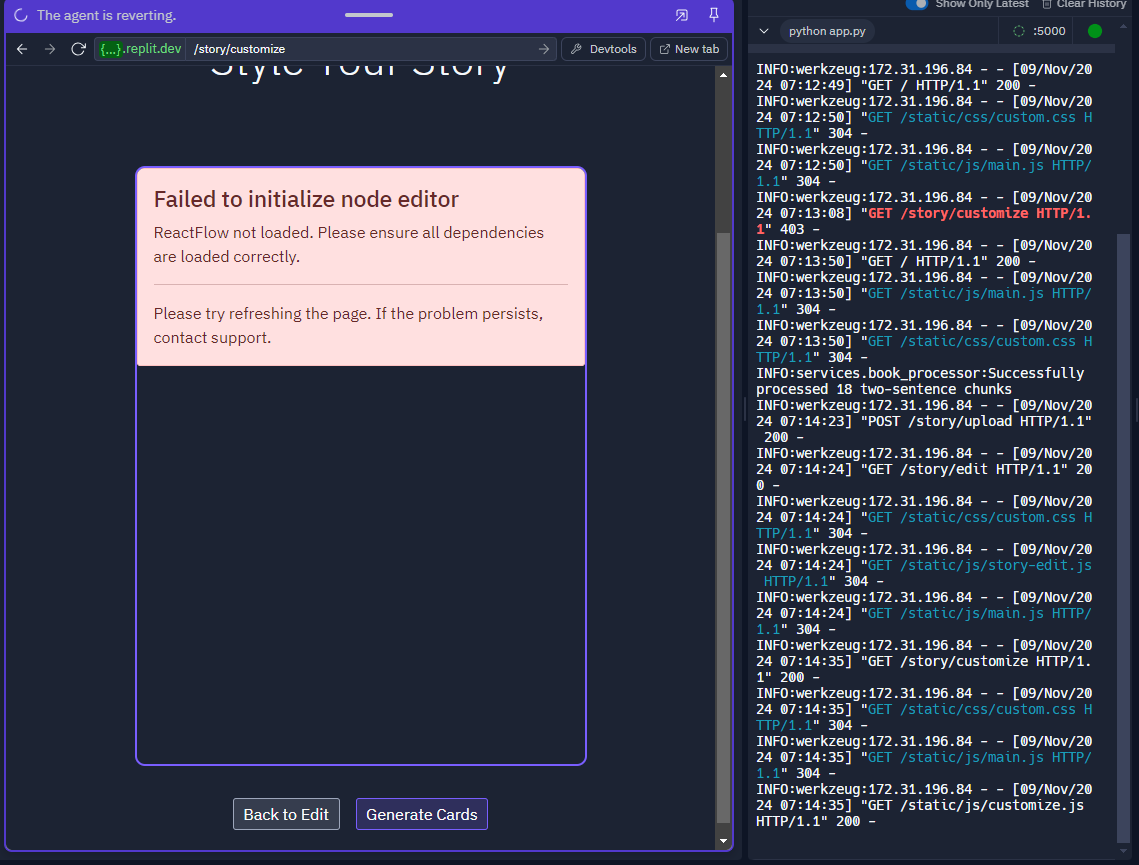
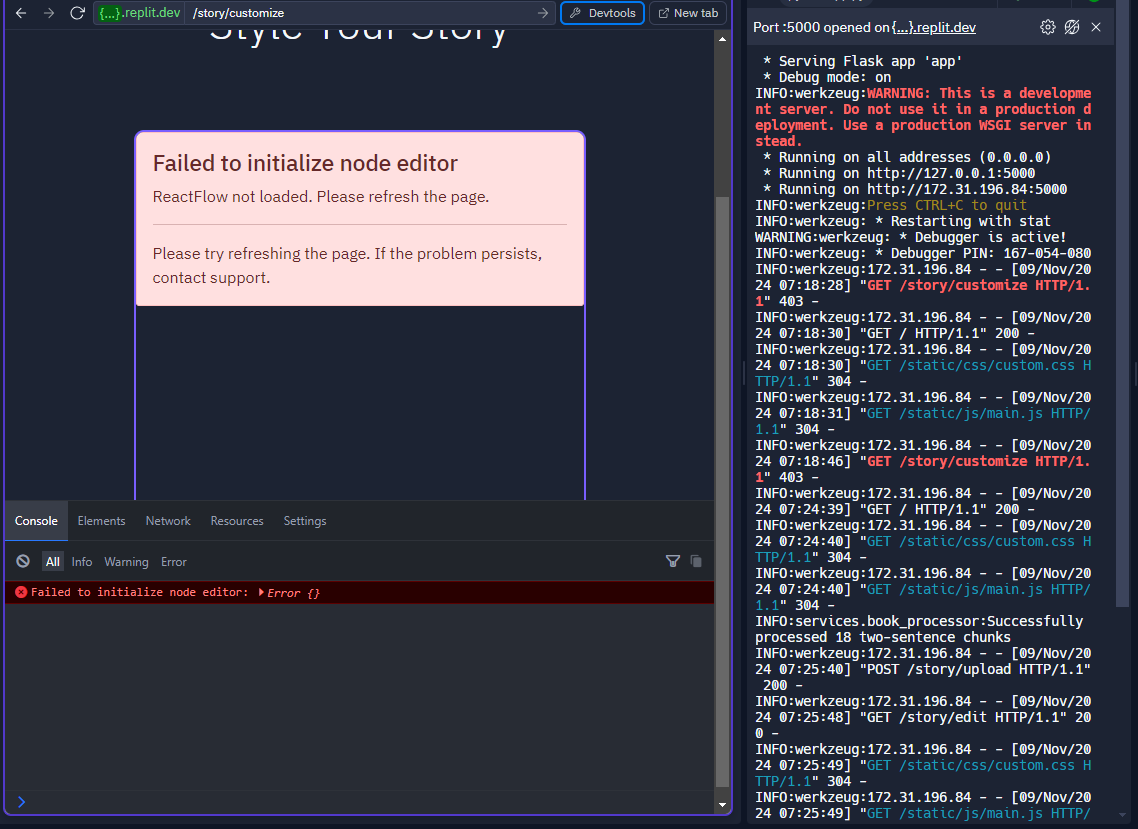
Agent query: Please verify if: 1. The node editor loads without errors 2. Paragraph nodes and style nodes are visible and connected 3. Style dropdowns can be changed 4. The 'Generate Cards' button works

diff --git a/static/js/customize.js b/static/js/customize.js
@@ -1,17 +1,11 @@
 document.addEventListener('DOMContentLoaded', () => {
-    const initializeEditor = () => {
+    // Wait for all scripts to load
+    setTimeout(() => {
         const container = document.getElementById('node-editor');
-        if (!container) {
-            console.error('Node editor container not found');
-            return;
-        }
+        if (!container) return;
 
         try {
-            // Verify ReactFlow is loaded
-            if (!window.ReactFlow) {
-                throw new Error('ReactFlow not loaded. Please refresh the page.');
-            }
-
+            // Parse story data
             const storyData = JSON.parse(container.dataset.story);
             
             // Create root element
@@ -20,22 +14,22 @@ document.addEventListener('DOMContentLoaded', () => {
             root.style.height = '100%';
             container.appendChild(root);
 
-            // Node components
-            const ParagraphNode = ({ data }) => {
-                return React.createElement('div',
+            // Create node components
+            function ParagraphNode({ data }) {
+                return React.createElement('div', 
                     { className: 'paragraph-node' },
-                    React.createElement('div',
-                        { className: 'node-header' },
+                    React.createElement('div', 
+                        { className: 'node-header' }, 
                         `Paragraph ${data.index + 1}`
                     ),
-                    React.createElement('div',
-                        { className: 'node-content' },
+                    React.createElement('div', 
+                        { className: 'node-content' }, 
                         data.text.substring(0, 100) + '...'
                     )
                 );
-            };
+            }
 
-            const EffectNode = ({ data }) => {
+            function EffectNode({ data }) {
                 return React.createElement('div',
                     { className: 'effect-node' },
                     React.createElement('div',
@@ -56,22 +50,23 @@ document.addEventListener('DOMContentLoaded', () => {
                         )
                     )
                 );
-            };
+            }
 
-            // Initialize style data
-            window.styleData = {
-                paragraphs: storyData.paragraphs.map((p, index) => ({
-                    index,
-                    image_style: p.image_style || 'realistic',
-                    voice_style: p.voice_style || 'neutral'
-                }))
-            };
-
-            // Create nodes
+            // Initialize nodes and edges
             const nodes = [];
             const edges = [];
+            
+            // Initialize style data
+            window.styleData = { paragraphs: [] };
 
+            // Create nodes for each paragraph
             storyData.paragraphs.forEach((p, i) => {
+                window.styleData.paragraphs[i] = {
+                    index: i,
+                    image_style: p.image_style || 'realistic',
+                    voice_style: p.voice_style || 'neutral'
+                };
+
                 // Add paragraph node
                 nodes.push({
                     id: `p-${i}`,
@@ -80,7 +75,7 @@ document.addEventListener('DOMContentLoaded', () => {
                     data: { index: i, text: p.text }
                 });
 
-                // Add image style node
+                // Add effect nodes
                 nodes.push({
                     id: `img-${i}`,
                     type: 'effect',
@@ -100,7 +95,6 @@ document.addEventListener('DOMContentLoaded', () => {
                     }
                 });
 
-                // Add voice style node
                 nodes.push({
                     id: `voice-${i}`,
                     type: 'effect',
@@ -126,24 +120,24 @@ document.addEventListener('DOMContentLoaded', () => {
                         id: `p${i}-img${i}`,
                         source: `p-${i}`,
                         target: `img-${i}`,
-                        type: 'smoothstep'
+                        type: 'default'
                     },
                     {
                         id: `p${i}-voice${i}`,
                         source: `p-${i}`,
                         target: `voice-${i}`,
-                        type: 'smoothstep'
+                        type: 'default'
                     }
                 );
             });
 
-            // Create flow component
+            // Create the flow component
             const Flow = () => {
                 const [reactNodes, setNodes] = React.useState(nodes);
                 const [reactEdges, setEdges] = React.useState(edges);
 
                 return React.createElement(ReactFlow.ReactFlowProvider, null,
-                    React.createElement(ReactFlow.ReactFlow, {
+                    React.createElement(ReactFlow.default, {
                         nodes: reactNodes,
                         edges: reactEdges,
                         nodeTypes: {
@@ -155,20 +149,14 @@ document.addEventListener('DOMContentLoaded', () => {
                         maxZoom: 1.5,
                         nodesDraggable: true,
                         nodesConnectable: false,
-                        elementsSelectable: true,
-                        onNodesChange: (changes) => {
-                            setNodes((nds) => ReactFlow.applyNodeChanges(changes, nds));
-                        },
-                        onEdgesChange: (changes) => {
-                            setEdges((eds) => ReactFlow.applyEdgeChanges(changes, eds));
-                        }
-                    }),
+                        elementsSelectable: true
+                    },
                     React.createElement(ReactFlow.Background, {
                         color: '#aaa',
                         gap: 16,
                         size: 1
                     }),
-                    React.createElement(ReactFlow.Controls)
+                    React.createElement(ReactFlow.Controls))
                 );
             };
 
@@ -224,8 +212,5 @@ document.addEventListener('DOMContentLoaded', () => {
                 <p class="mb-0">Please try refreshing the page. If the problem persists, contact support.</p>
             </div>`;
         }
-    };
-
-    // Delay initialization to ensure all scripts are loaded
-    setTimeout(initializeEditor, 500);
+    }, 1000); // Wait 1 second for all scripts to load
 });

diff --git a/templates/story/customize.html b/templates/story/customize.html
@@ -16,10 +16,16 @@
 {% endblock %}
 
 {% block scripts %}
-<!-- React and ReactFlow dependencies -->
+<!-- React dependencies -->
 <script src="https://unpkg.com/react@17/umd/react.development.js"></script>
 <script src="https://unpkg.com/react-dom@17/umd/react-dom.development.js"></script>
-<script src="https://unpkg.com/reactflow@11.7.4/dist/umd/reactflow.min.js"></script>
+
+<!-- ReactFlow library -->
+<script src="https://unpkg.com/reactflow@11.7.4/dist/reactflow.umd.min.js"></script>
+
+<!-- ReactFlow styles -->
 <link href="https://unpkg.com/reactflow@11.7.4/dist/style.css" rel="stylesheet" />
+
+<!-- Custom script -->
 <script src="{{ url_for('static', filename='js/customize.js') }}" type="text/javascript"></script>
 {% endblock %}
